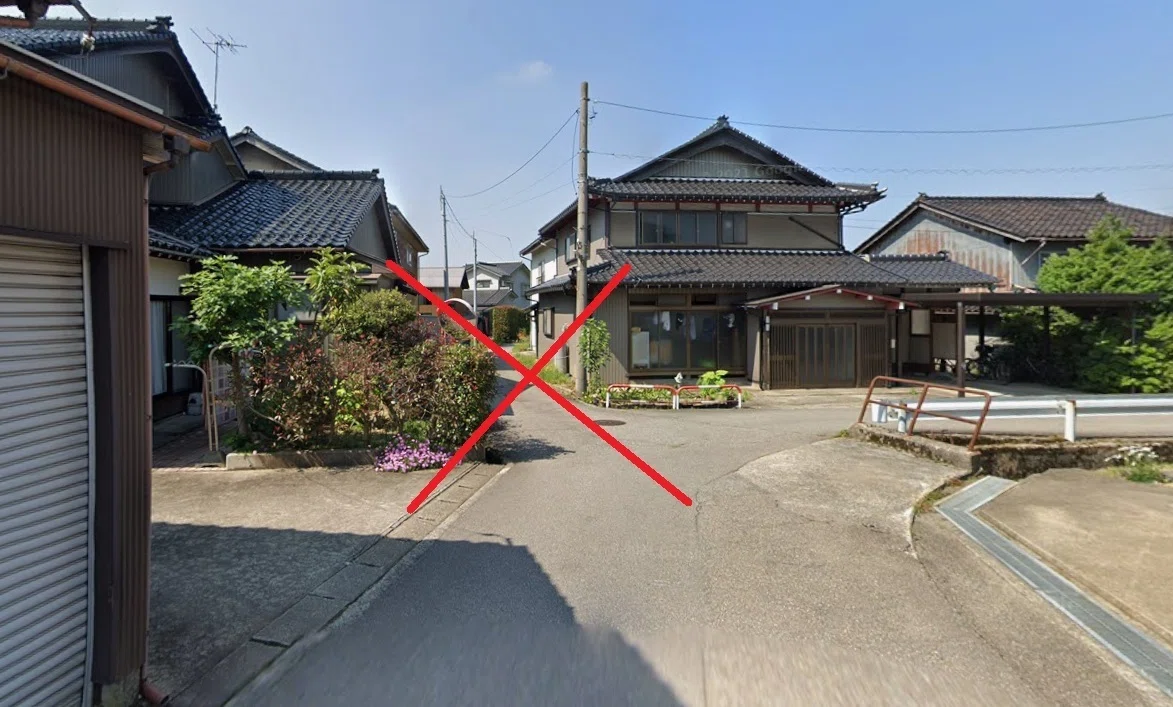
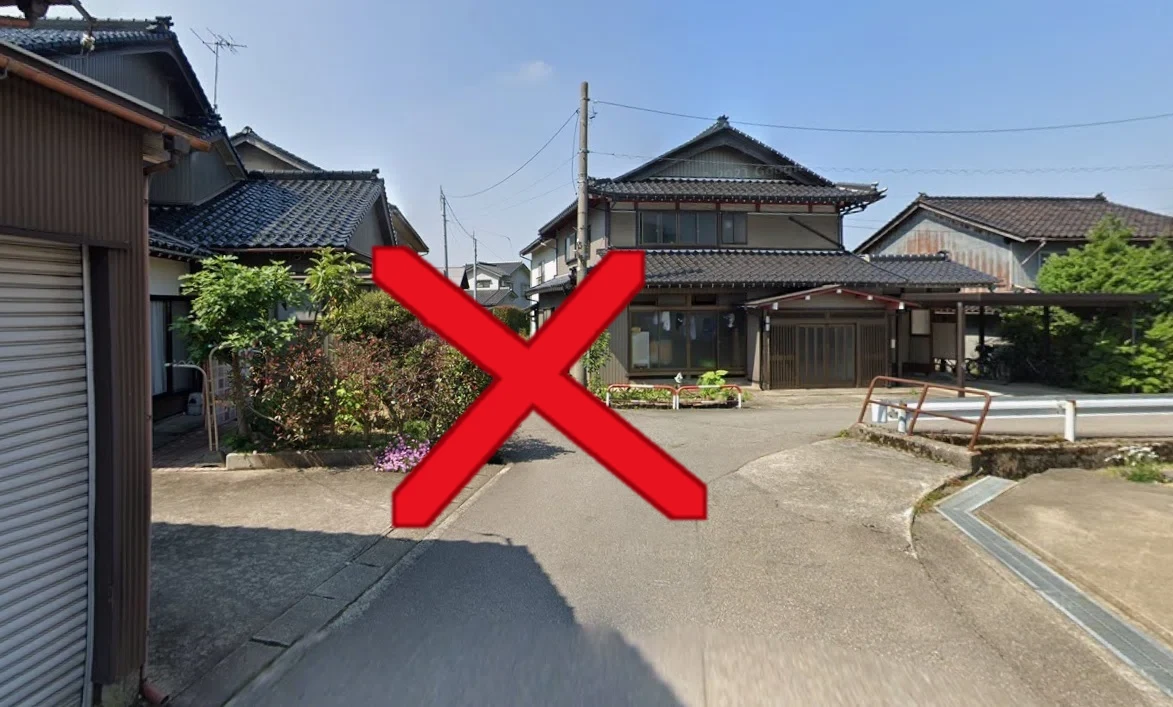
進入禁止ルートの×・○印を太く、ヘッダーに「タップでトップへ戻る」案内とメニューにトップページを追加

Changed region(s): [[0.3069, 0.3423, 0.6138, 0.7468]]

diff --git a/index.html b/index.html
@@ -89,6 +89,13 @@
     }
     .logo-text .main { display:block; font-size:18px; font-weight:700; color:var(--green-dark); line-height:1.2; }
     .logo-text .sub { display:block; font-size:11px; color:var(--text-light); }
+    .logo-text .sub-home { display:none; }
+    @media(max-width:600px){
+      /* スマホでは「タップでトップへ」の案内を表示 */
+      .logo-text .sub { display:none; }
+      .logo-text .sub-home { display:block; font-size:11px; font-weight:700; color:var(--green-mid); white-space:nowrap; }
+      .logo-text .main { font-size:17px; }
+    }
     nav { display:none; }
     @media(min-width:700px){
       nav { display:flex; gap:18px; align-items:center; }
@@ -647,12 +654,13 @@
 </div>
 
 <!-- HEADER -->
-<header>
-  <a class="header-logo" href="#">
+<header id="top">
+  <a class="header-logo" href="#top" title="トップページへ戻る" aria-label="トップページへ戻る">
     <img src="./logo.png" alt="きときと整体院ロゴ" class="logo-img" onerror="this.src='./logo.svg'"/>
     <div class="logo-text">
       <span class="main">きときと整体院</span>
       <span class="sub">富山県射水市 ／ KYT専門整体</span>
+      <span class="sub-home">🏠 タップでトップへ戻る</span>
     </div>
   </a>
   <nav>
@@ -674,6 +682,7 @@
 </header>
 <div class="nav-overlay" id="navOverlay"></div>
 <div class="mobile-nav" id="mobileNav">
+  <a href="#top" onclick="closeMobileNav()">🏠 トップページ</a>
   <a href="#reasons" onclick="closeMobileNav()">選ばれる理由</a>
   <a href="#voices" onclick="closeMobileNav()">お客様の声</a>
   <a href="#pricing" onclick="closeMobileNav()">料金</a>
@@ -1259,13 +1268,13 @@
       </div>
       <div style="display:grid;grid-template-columns:repeat(auto-fill,minmax(320px,1fr));gap:16px;">
         <div class="r-img-card">
-          <img src="route_ng1.webp" alt="進入禁止ルート1" loading="lazy" style="width:100%;border-radius:8px;display:block;" />
+          <img src="route_ng1.webp?v=2" alt="進入禁止ルート1" loading="lazy" style="width:100%;border-radius:8px;display:block;" />
         </div>
         <div class="r-img-card">
-          <img src="route_ng2.webp" alt="進入禁止ルート2" loading="lazy" style="width:100%;border-radius:8px;display:block;" />
+          <img src="route_ng2.webp?v=2" alt="進入禁止ルート2" loading="lazy" style="width:100%;border-radius:8px;display:block;" />
         </div>
         <div class="r-img-card">
-          <img src="route_ng3.webp" alt="進入禁止ルート3" loading="lazy" style="width:100%;border-radius:8px;display:block;" />
+          <img src="route_ng3.webp?v=2" alt="進入禁止ルート3" loading="lazy" style="width:100%;border-radius:8px;display:block;" />
         </div>
       </div>
     </div>
@@ -1396,6 +1405,8 @@
 
     const goTo = (el) => {
       cancel = false;
+      // トップへ（ヘッダーは画面固定なので位置計算せず最上部へ）
+      if (el.id === 'top') { window.scrollTo({ top: 0, behavior: 'auto' }); return; }
       const jump = () => {
         if (cancel) return;
         const offset = document.querySelector('header').offsetHeight + 8;

diff --git a/route.html b/route.html
@@ -108,9 +108,9 @@
 
   <div class="ng-head">⚠ この道には入らないでください！道が狭くなり危険です</div>
   <div class="grid three">
-    <div class="card"><img src="route_ng1.webp" alt="進入禁止ルート1" /></div>
-    <div class="card"><img src="route_ng2.webp" alt="進入禁止ルート2" /></div>
-    <div class="card"><img src="route_ng3.webp" alt="進入禁止ルート3" /></div>
+    <div class="card"><img src="route_ng1.webp?v=2" alt="進入禁止ルート1" /></div>
+    <div class="card"><img src="route_ng2.webp?v=2" alt="進入禁止ルート2" /></div>
+    <div class="card"><img src="route_ng3.webp?v=2" alt="進入禁止ルート3" /></div>
   </div>
 
   <div class="info">
